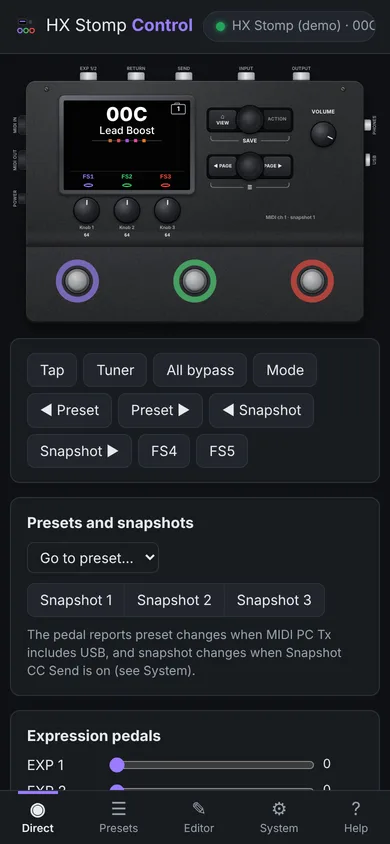
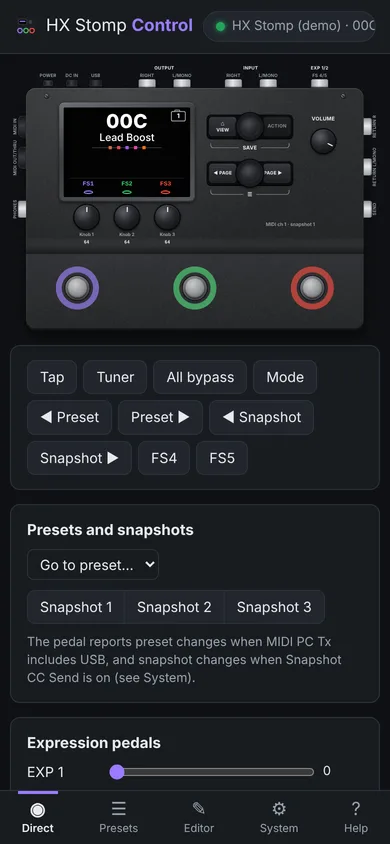
Direct mode: put the jacks where they are on the pedal (top: power, DC in, USB, outputs, inputs, EXP 1/2; left: MIDI and phones; right: returns and send)

diff --git a/web/js/app.js b/web/js/app.js
@@ -231,15 +231,20 @@
     var lcd = h('div', { class: 'lcd' + (S.tuner ? ' tuner' : ''), id: 'lcd' });
     var panel = h('div', { class: 'hxpanel' + (conn ? '' : ' off') },
       // jacks along the top edge
-      [[170, 'EXP 1/2'], [300, 'RETURN'], [430, 'SEND'], [600, 'INPUT'], [750, 'OUTPUT']].map(function (j) {
-        return [at(j[0], -13, h('span', { class: 'jack' })), at(j[0], -34, h('span', { class: 'jlabel' }, j[1]))];
+      // the top edge, left to right as seen from the front (the manual shows it from behind)
+      [[60, 'POWER', 'switch'], [125, 'DC IN', 'dc'], [190, 'USB', 'usb'],
+        [330, 'RIGHT', ''], [425, 'L/MONO', ''], [565, 'RIGHT', ''], [660, 'L/MONO', ''], [800, 'FS 4/5', '']].map(function (j) {
+        return [at(j[0], -13, h('span', { class: 'jack ' + j[2] })), at(j[0], -34, h('span', { class: 'jlabel' }, j[1]))];
       }),
-      // jacks on the left and right sides
-      [[120, 'MIDI IN', 'jack din'], [215, 'MIDI OUT', 'jack din'], [320, 'POWER', 'jack dc']].map(function (j) {
-        return [at(-11, j[0], h('span', { class: j[2] + ' side' })), at(-30, j[0], h('span', { class: 'jlabel vert' }, j[1]))];
+      at(377, -54, h('span', { class: 'jlabel grp' }, 'OUTPUT')), at(612, -54, h('span', { class: 'jlabel grp' }, 'INPUT')),
+      at(800, -54, h('span', { class: 'jlabel grp' }, 'EXP 1/2')),
+      // left side, back to front: MIDI IN, MIDI OUT/THRU, PHONES
+      [[105, 'MIDI IN', 'din'], [190, 'MIDI OUT/THRU', 'din'], [330, 'PHONES', '']].map(function (j) {
+        return [at(-11, j[0], h('span', { class: 'jack side ' + j[2] })), at(-30, j[0], h('span', { class: 'jlabel vert' }, j[1]))];
       }),
-      [[120, 'PHONES', 'jack mini'], [215, 'USB', 'jack usb']].map(function (j) {
-        return [at(931, j[0], h('span', { class: j[2] + ' side' })), at(950, j[0], h('span', { class: 'jlabel vert' }, j[1]))];
+      // right side, back to front: RETURN/AUX IN RIGHT and L/MONO, SEND (stereo)
+      [[105, 'RETURN R'], [215, 'RETURN L/MONO'], [330, 'SEND']].map(function (j) {
+        return [at(931, j[0], h('span', { class: 'jack side right' })), at(950, j[0], h('span', { class: 'jlabel vert' }, j[1]))];
       }),
       at(56, 22, h('span', { class: 'screw' })), at(864, 22, h('span', { class: 'screw' })),
       // the screen
@@ -354,7 +359,7 @@
     return k;
   }
   function fitPanel(wrap, panel) {
-    var W = 920, H = 660, TOP = 46, SIDE = 44;   // room for the jacks above and at the sides
+    var W = 920, H = 660, TOP = 66, SIDE = 44;   // room for the jacks above and at the sides
     var s = Math.min(1, (wrap.clientWidth || W) / (W + 2 * SIDE));
     panel.style.transform = 'scale(' + s + ')';
     panel.style.top = Math.round(TOP * s) + 'px';

diff --git a/web/css/style.css b/web/css/style.css
@@ -191,11 +191,13 @@ table.grid th { font-size: 12px; color: var(--muted); font-weight: 600; }
   background: linear-gradient(90deg, #8d9095, #e6e8eb 45%, #9a9da2); box-shadow: inset 0 -3px 0 rgba(0,0,0,.25); }
 .hxpanel .jack.mini { width: 30px; height: 16px; }
 .hxpanel .jack.usb { width: 34px; height: 12px; border-radius: 2px 2px 0 0; background: linear-gradient(90deg, #111214, #3a3c40 45%, #141517); box-shadow: 0 0 0 1px #55585e; }
+.hxpanel .jack.switch { width: 22px; height: 12px; border-radius: 3px 3px 0 0; background: linear-gradient(90deg, #111214, #45484d 50%, #141517); box-shadow: 0 0 0 1px #55585e; }
+.hxpanel .jack.dc { width: 26px; height: 14px; border-radius: 3px 3px 0 0; background: linear-gradient(90deg, #111214, #3a3c40 45%, #141517); box-shadow: 0 0 0 1px #55585e; }
+.hxpanel .jack.usb { width: 30px; height: 14px; border-radius: 2px 2px 0 0; }
 .hxpanel .jack.side { width: 22px; height: 46px; border-radius: 5px 0 0 5px; background: linear-gradient(180deg, #8d9095, #e6e8eb 45%, #9a9da2); box-shadow: inset 3px 0 0 rgba(0,0,0,.25); }
-.hxpanel .jack.din.side { height: 50px; width: 18px; border-radius: 9px 0 0 9px; background: linear-gradient(180deg, #111214, #3a3c40 45%, #141517); box-shadow: 0 0 0 1px #55585e; }
-.hxpanel .jack.dc.side { height: 26px; width: 16px; border-radius: 4px 0 0 4px; background: linear-gradient(180deg, #111214, #3a3c40 45%, #141517); box-shadow: 0 0 0 1px #55585e; }
-.hxpanel .jack.mini.side { height: 30px; width: 18px; border-radius: 0 5px 5px 0; }
-.hxpanel .jack.usb.side { height: 34px; width: 12px; border-radius: 0 2px 2px 0; }
+.hxpanel .jack.side.right { border-radius: 0 5px 5px 0; box-shadow: inset -3px 0 0 rgba(0,0,0,.25); }
+.hxpanel .jack.side.din { height: 56px; width: 18px; border-radius: 10px 0 0 10px; background: linear-gradient(180deg, #111214, #3a3c40 45%, #141517); box-shadow: 0 0 0 1px #55585e; }
+.hxpanel .jlabel.grp { font-weight: 700; color: var(--text); letter-spacing: .6px; }
 .hxpanel .jlabel.vert { transform: translate(-50%, -50%) rotate(-90deg); }
 .hxpanel .jlabel { font: 600 12px/1 system-ui, sans-serif; letter-spacing: .3px; color: var(--muted); white-space: nowrap; }
 .hxpanel .screw { width: 14px; height: 14px; border-radius: 50%; background: radial-gradient(circle at 40% 35%, #8a8d92, #2c2d31 70%); box-shadow: inset 0 0 0 1px #000; }
